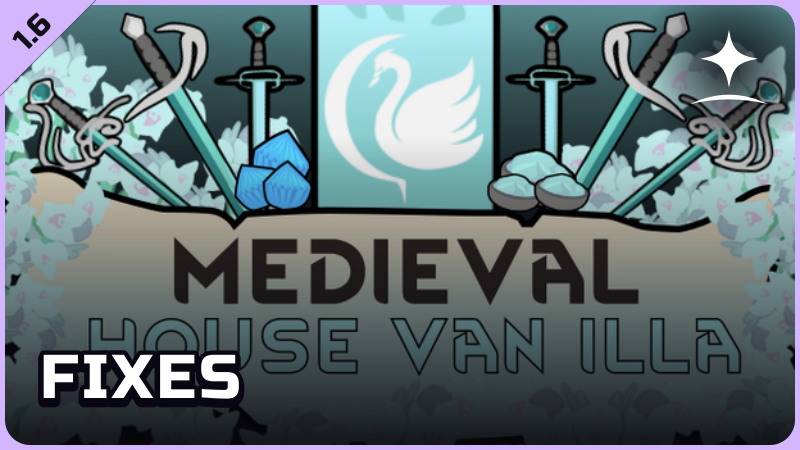
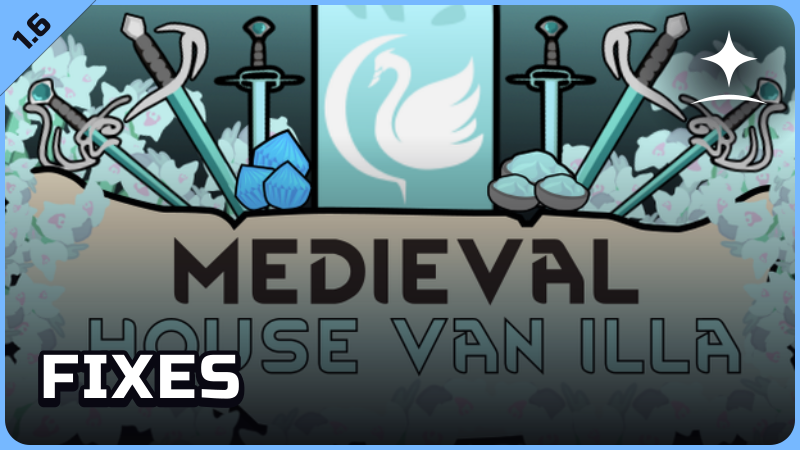
Use approved blue covers for existing fixes

Changed region(s): [[0.0, 0.0, 1.0, 1.0]]

diff --git a/catalog/fixes.md b/catalog/fixes.md
@@ -16,8 +16,6 @@ RimWorld 1.6 · Version 1.0.0
 
 [Workshop](https://steamcommunity.com/sharedfiles/filedetails/?id=3807830515) · [Source & guide](../mods/CharacterEditor-Fixes/README.md) · [Changelog](../mods/CharacterEditor-Fixes/CHANGELOG.md) · [License](../mods/CharacterEditor-Fixes/LICENSE) · [Sources & notices](../mods/CharacterEditor-Fixes/NOTICES.md)
 
-[![Explore other mods on Steam Workshop](https://raw.githubusercontent.com/chupakobra6/star-sky-assets/main/assets/banner-workshop-en.png)](https://steamcommunity.com/id/chupakobra6/myworkshopfiles/?appid=294100)
-
 ## House Van Illa Fixes
 
 Conditional fix for the duplicate sword-rack definition in Medieval Overhaul: House Van Illa
